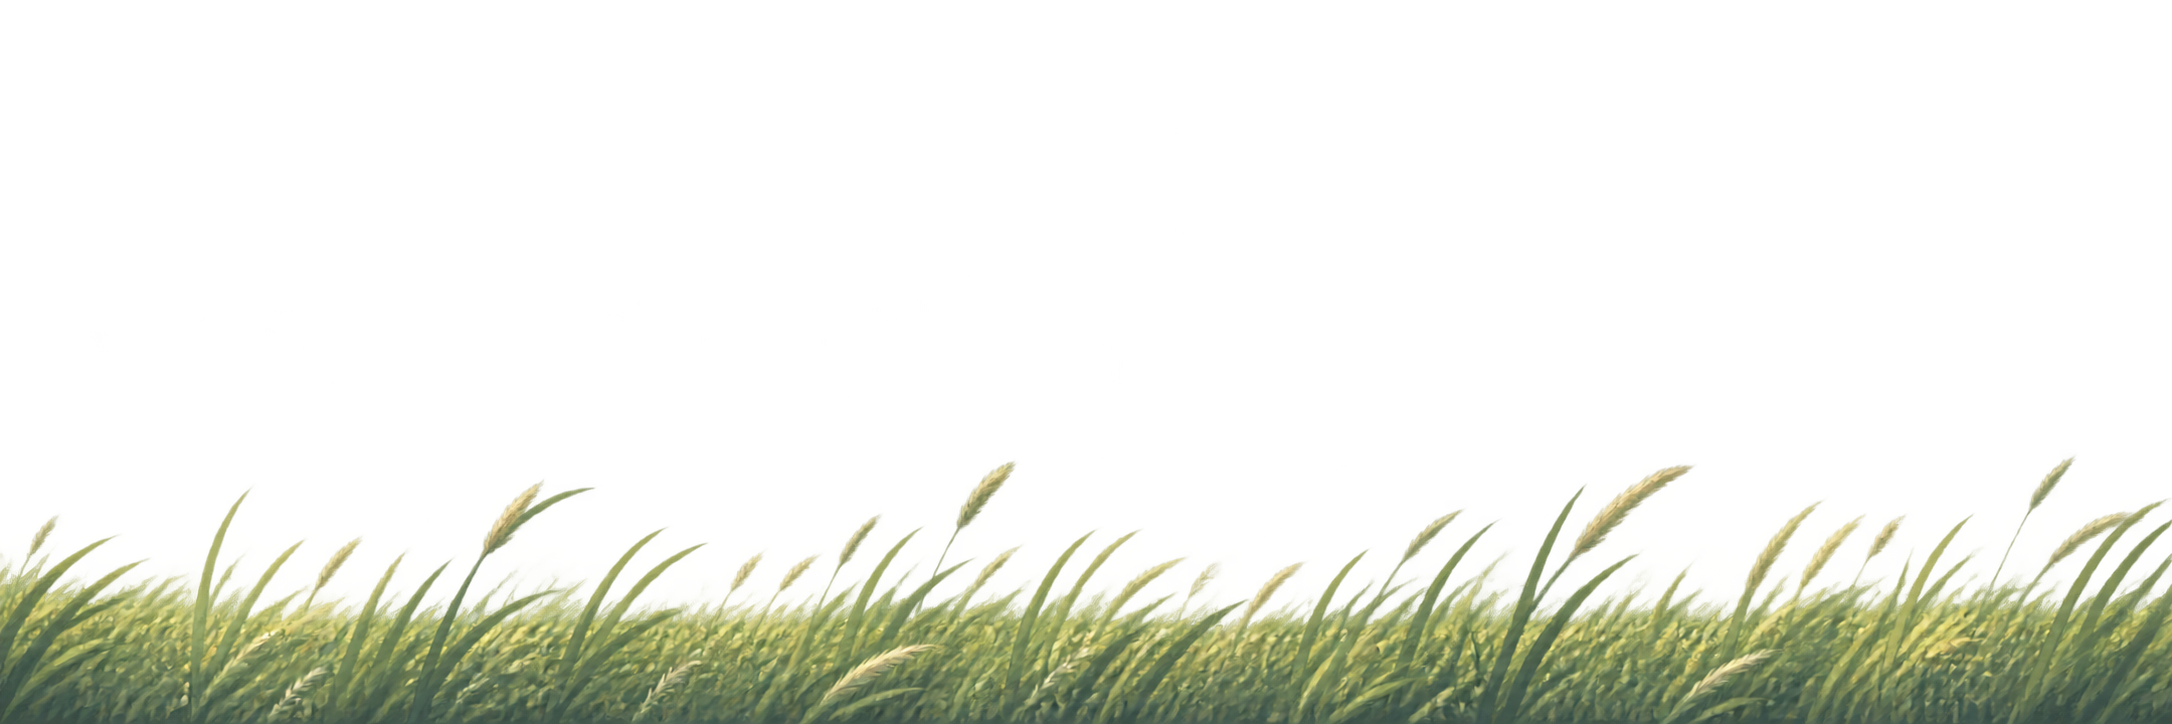
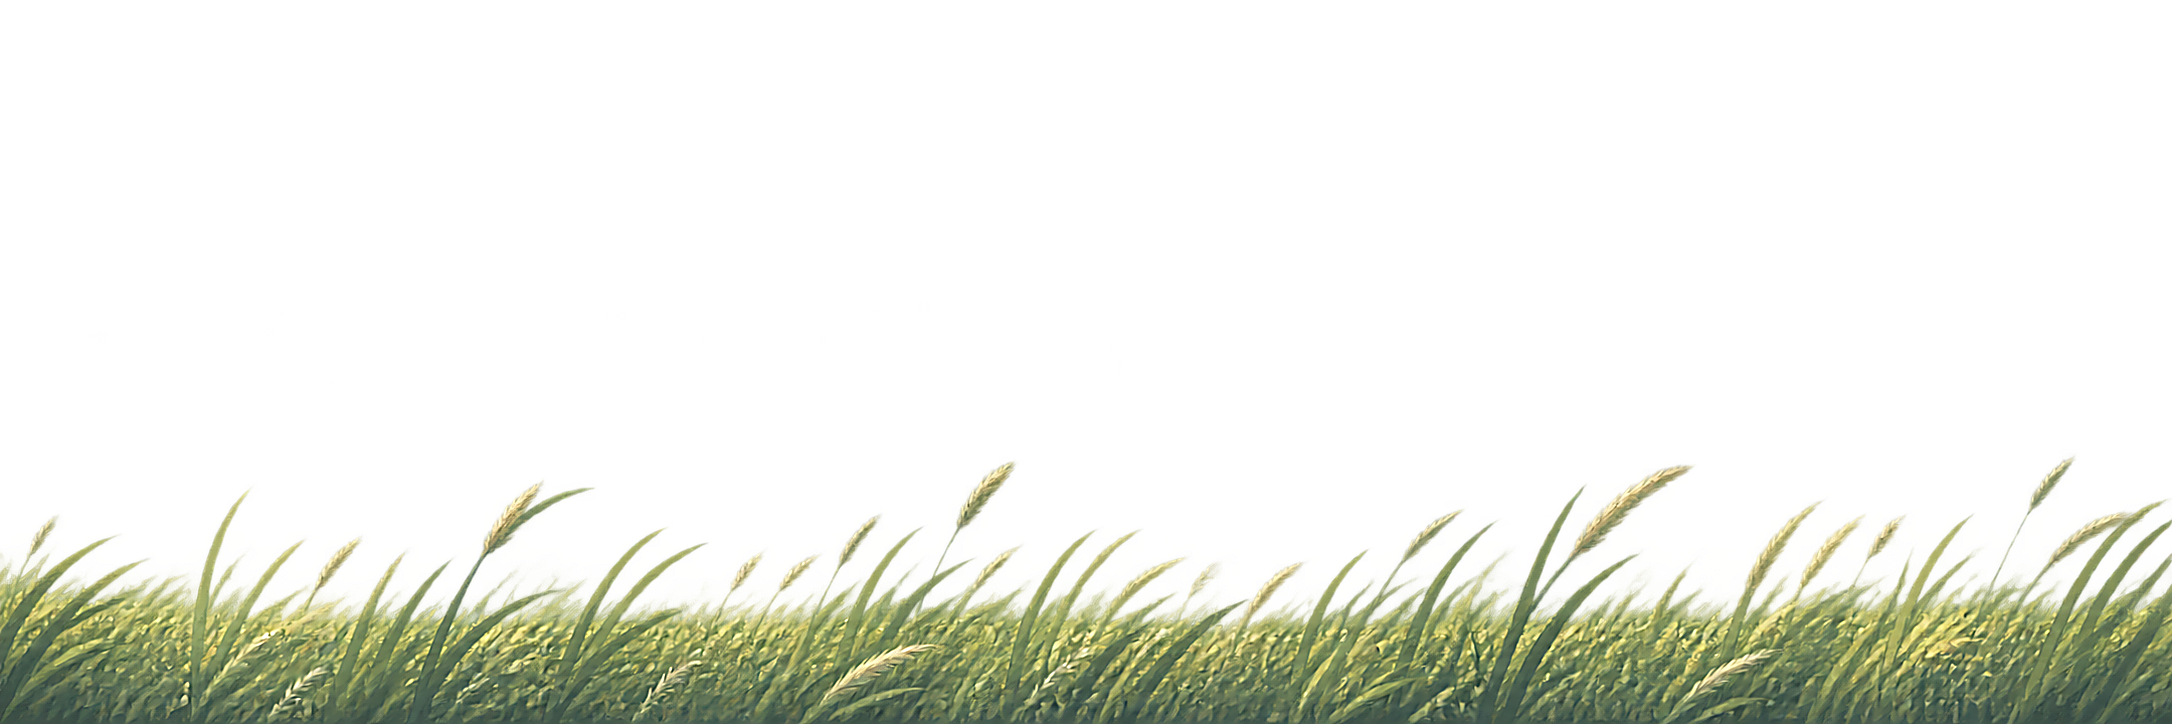
fix(grass): sharpen both band layers so the horizon stops reading mushy
The plate is painterly and already soft at its own 2172x724, and the band
then draws it at about 1.3x on a 2x display, so the closing grass looked
like a low-resolution image. Two passes, one per layer:

- horizon-grass.png gets an unsharp mask baked in (radius 1.6, 160%,
  threshold 2), applied to RGB with the alpha channel carried through
  untouched so the blade cutouts keep their soft edges.
- The loop gets an feConvolveMatrix at paint time. It cannot be sharpened
  in the asset: ffmpeg does not decode the VP9 alpha side channel, so any
  re-encode drops it and bakes the yellow matte fringe into the sky.

The filter sits on .horizon-grass-video and the mask stays on an inner
wrapper, so no single element carries both — that pairing is what earlier
commits found GPU compositors dropping on a video.

Measured on the rendered band at 1440@2x (variance of Laplacian): desktop
74.4 -> 171.2, and the still alone, which is all mobile and reduced motion
ever paint, 90.3 -> 282.6. Verified at 390/768/1440, with and without GPU;
e2e passes at 60fps.

Claude-Session: https://claude.ai/code/session_015gNqzzkDgwEyihvNqfjSrJ

diff --git a/index.html b/index.html
@@ -54,12 +54,27 @@ a:hover { color:#5d7247; }
   -webkit-mask-image: linear-gradient(180deg, transparent 0, rgba(0,0,0,.8) 30%, #000 64%);
           mask-image: linear-gradient(180deg, transparent 0, rgba(0,0,0,.8) 30%, #000 64%);
 }
+/* Scoped to the loop's wrapper: .horizon-grass carries .grass-mask too, and
+   an unscoped height:100% here would override its clamped band height. */
+.horizon-grass-video > .grass-mask,
 .grass-mask > video {
   display: block;
   width: 100%;
   height: 100%;
   object-fit: cover;
   object-position: bottom center;
+}
+/* The plate is painterly and soft at its own resolution, and `cover` then
+   draws it at roughly 1.3x on a 2x display, so the band reads mushy. The
+   still is sharpened in the asset itself; the loop cannot be, because
+   re-encoding it through ffmpeg drops the VP9 alpha channel and bakes the
+   matte fringe into the sky. A convolution at paint time is the only pass
+   left for the moving layer. It sits on the outer element, never on the
+   masked one — filter and mask on a single video wrapper is the pairing
+   that GPU compositors have dropped here before. */
+.grass-sharpen { filter: url(#grass-sharpen); }
+@supports not (filter: url(#grass-sharpen)) {
+  .grass-sharpen { filter: contrast(1.08) saturate(1.05); }
 }
 /* The video carries the per-blade motion; the still underneath is what
    shows on mobile, in reduced motion, and wherever VP9 alpha will not
@@ -406,8 +421,13 @@ a:hover { color:#5d7247; }
     <div class="cloud" style="position:absolute;top:14%;left:0;width:480px;height:160px;border-radius:50%;background:radial-gradient(closest-side,rgba(255,255,255,.8),rgba(255,255,255,0));filter:blur(18px);animation:drift 280s linear infinite;animation-delay:-60s"></div>
     <div class="cloud" style="position:absolute;top:40%;left:0;width:340px;height:120px;border-radius:50%;background:radial-gradient(closest-side,rgba(255,255,255,.62),rgba(255,255,255,0));filter:blur(20px);animation:drift 340s linear infinite;animation-delay:-210s"></div>
   </div>
+  <svg aria-hidden="true" focusable="false" width="0" height="0" style="position:absolute">
+    <filter id="grass-sharpen" x="0" y="0" width="100%" height="100%">
+      <feConvolveMatrix order="3" preserveAlpha="true" kernelMatrix="0 -0.45 0 -0.45 2.8 -0.45 0 -0.45 0" />
+    </filter>
+  </svg>
   <img src="assets/horizon-grass.png" class="horizon-grass grass-mask" alt="" aria-hidden="true" loading="lazy" decoding="async" />
-  <div class="horizon-grass-video grass-mask" aria-hidden="true"><video data-grass-loop data-src="assets/hero-grass-loop.webm" width="1920" height="266" muted loop playsinline autoplay preload="none" disablepictureinpicture></video></div>
+  <div class="horizon-grass-video grass-sharpen" aria-hidden="true"><div class="grass-mask"><video data-grass-loop data-src="assets/hero-grass-loop.webm" width="1920" height="266" muted loop playsinline autoplay preload="none" disablepictureinpicture></video></div></div>
   <div aria-hidden="true" style="position:absolute;inset:0;z-index:3;pointer-events:none;background-image:var(--grain);background-size:160px 160px;opacity:.07;mix-blend-mode:overlay"></div>
 
   <div style="position:relative;z-index:4;max-width:1180px;margin:0 auto;width:100%;padding:clamp(70px,9vw,120px) clamp(22px,6vw,64px) clamp(90px,11vw,150px)">
